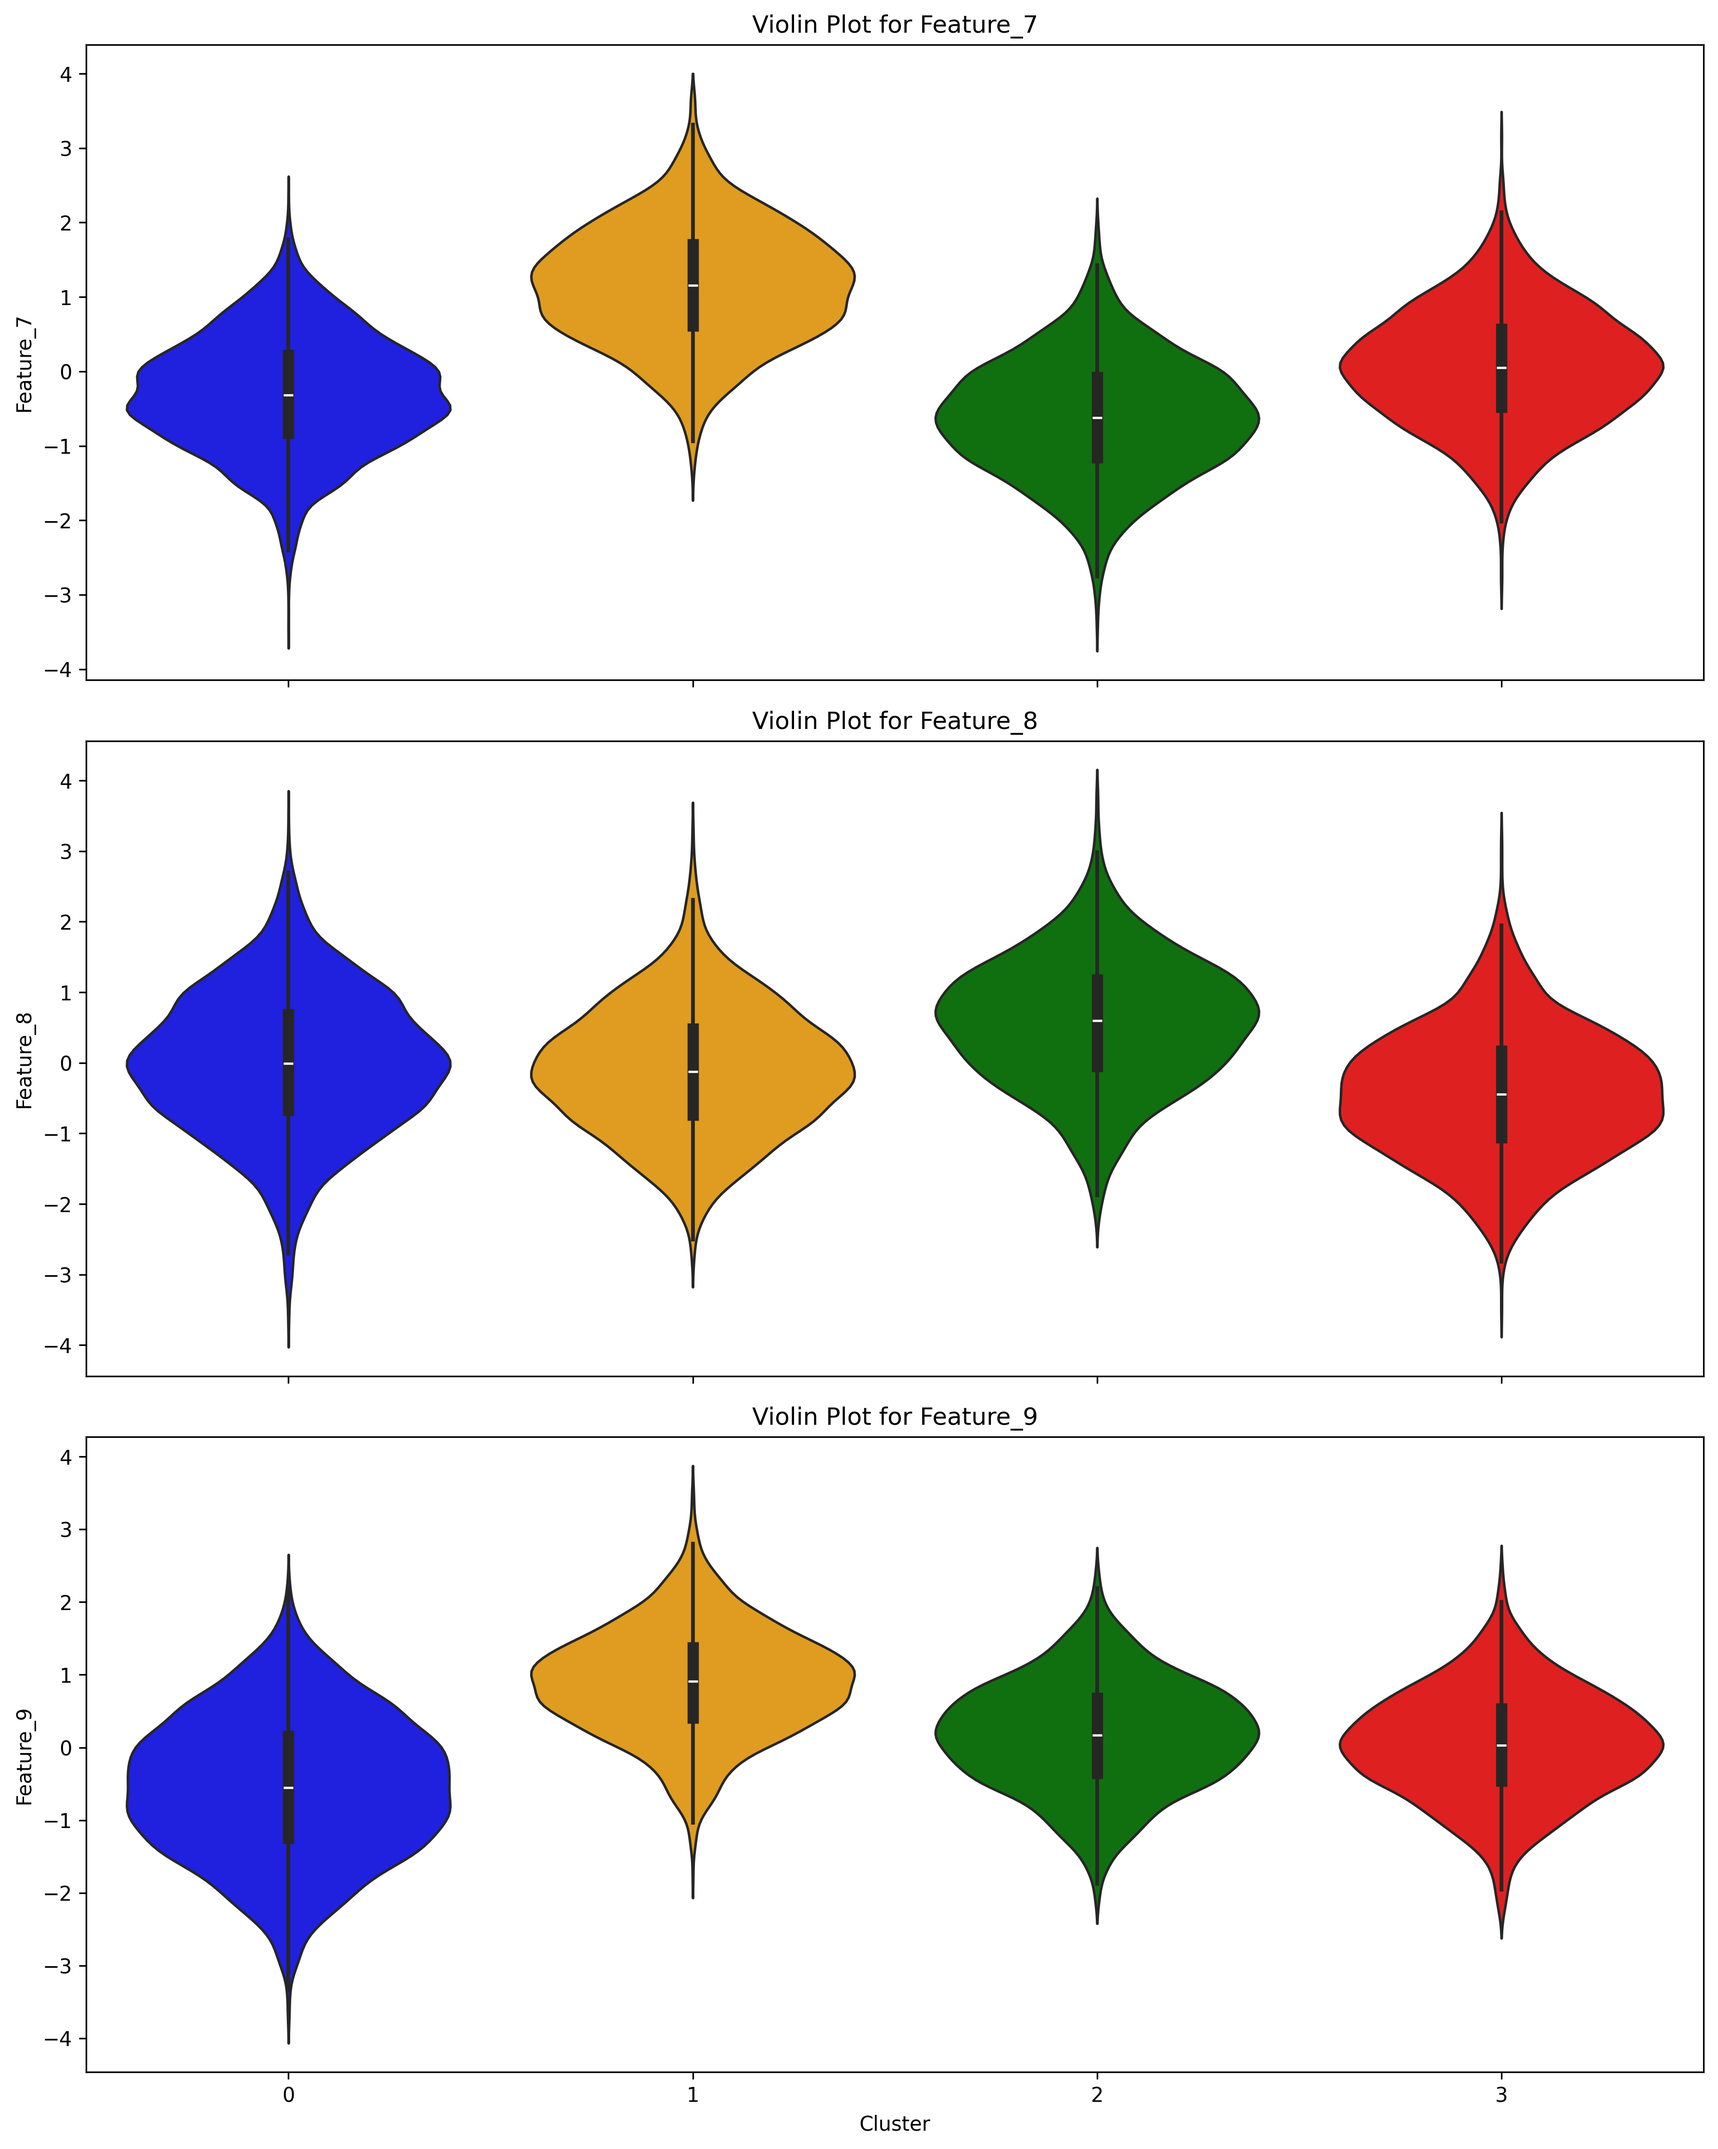
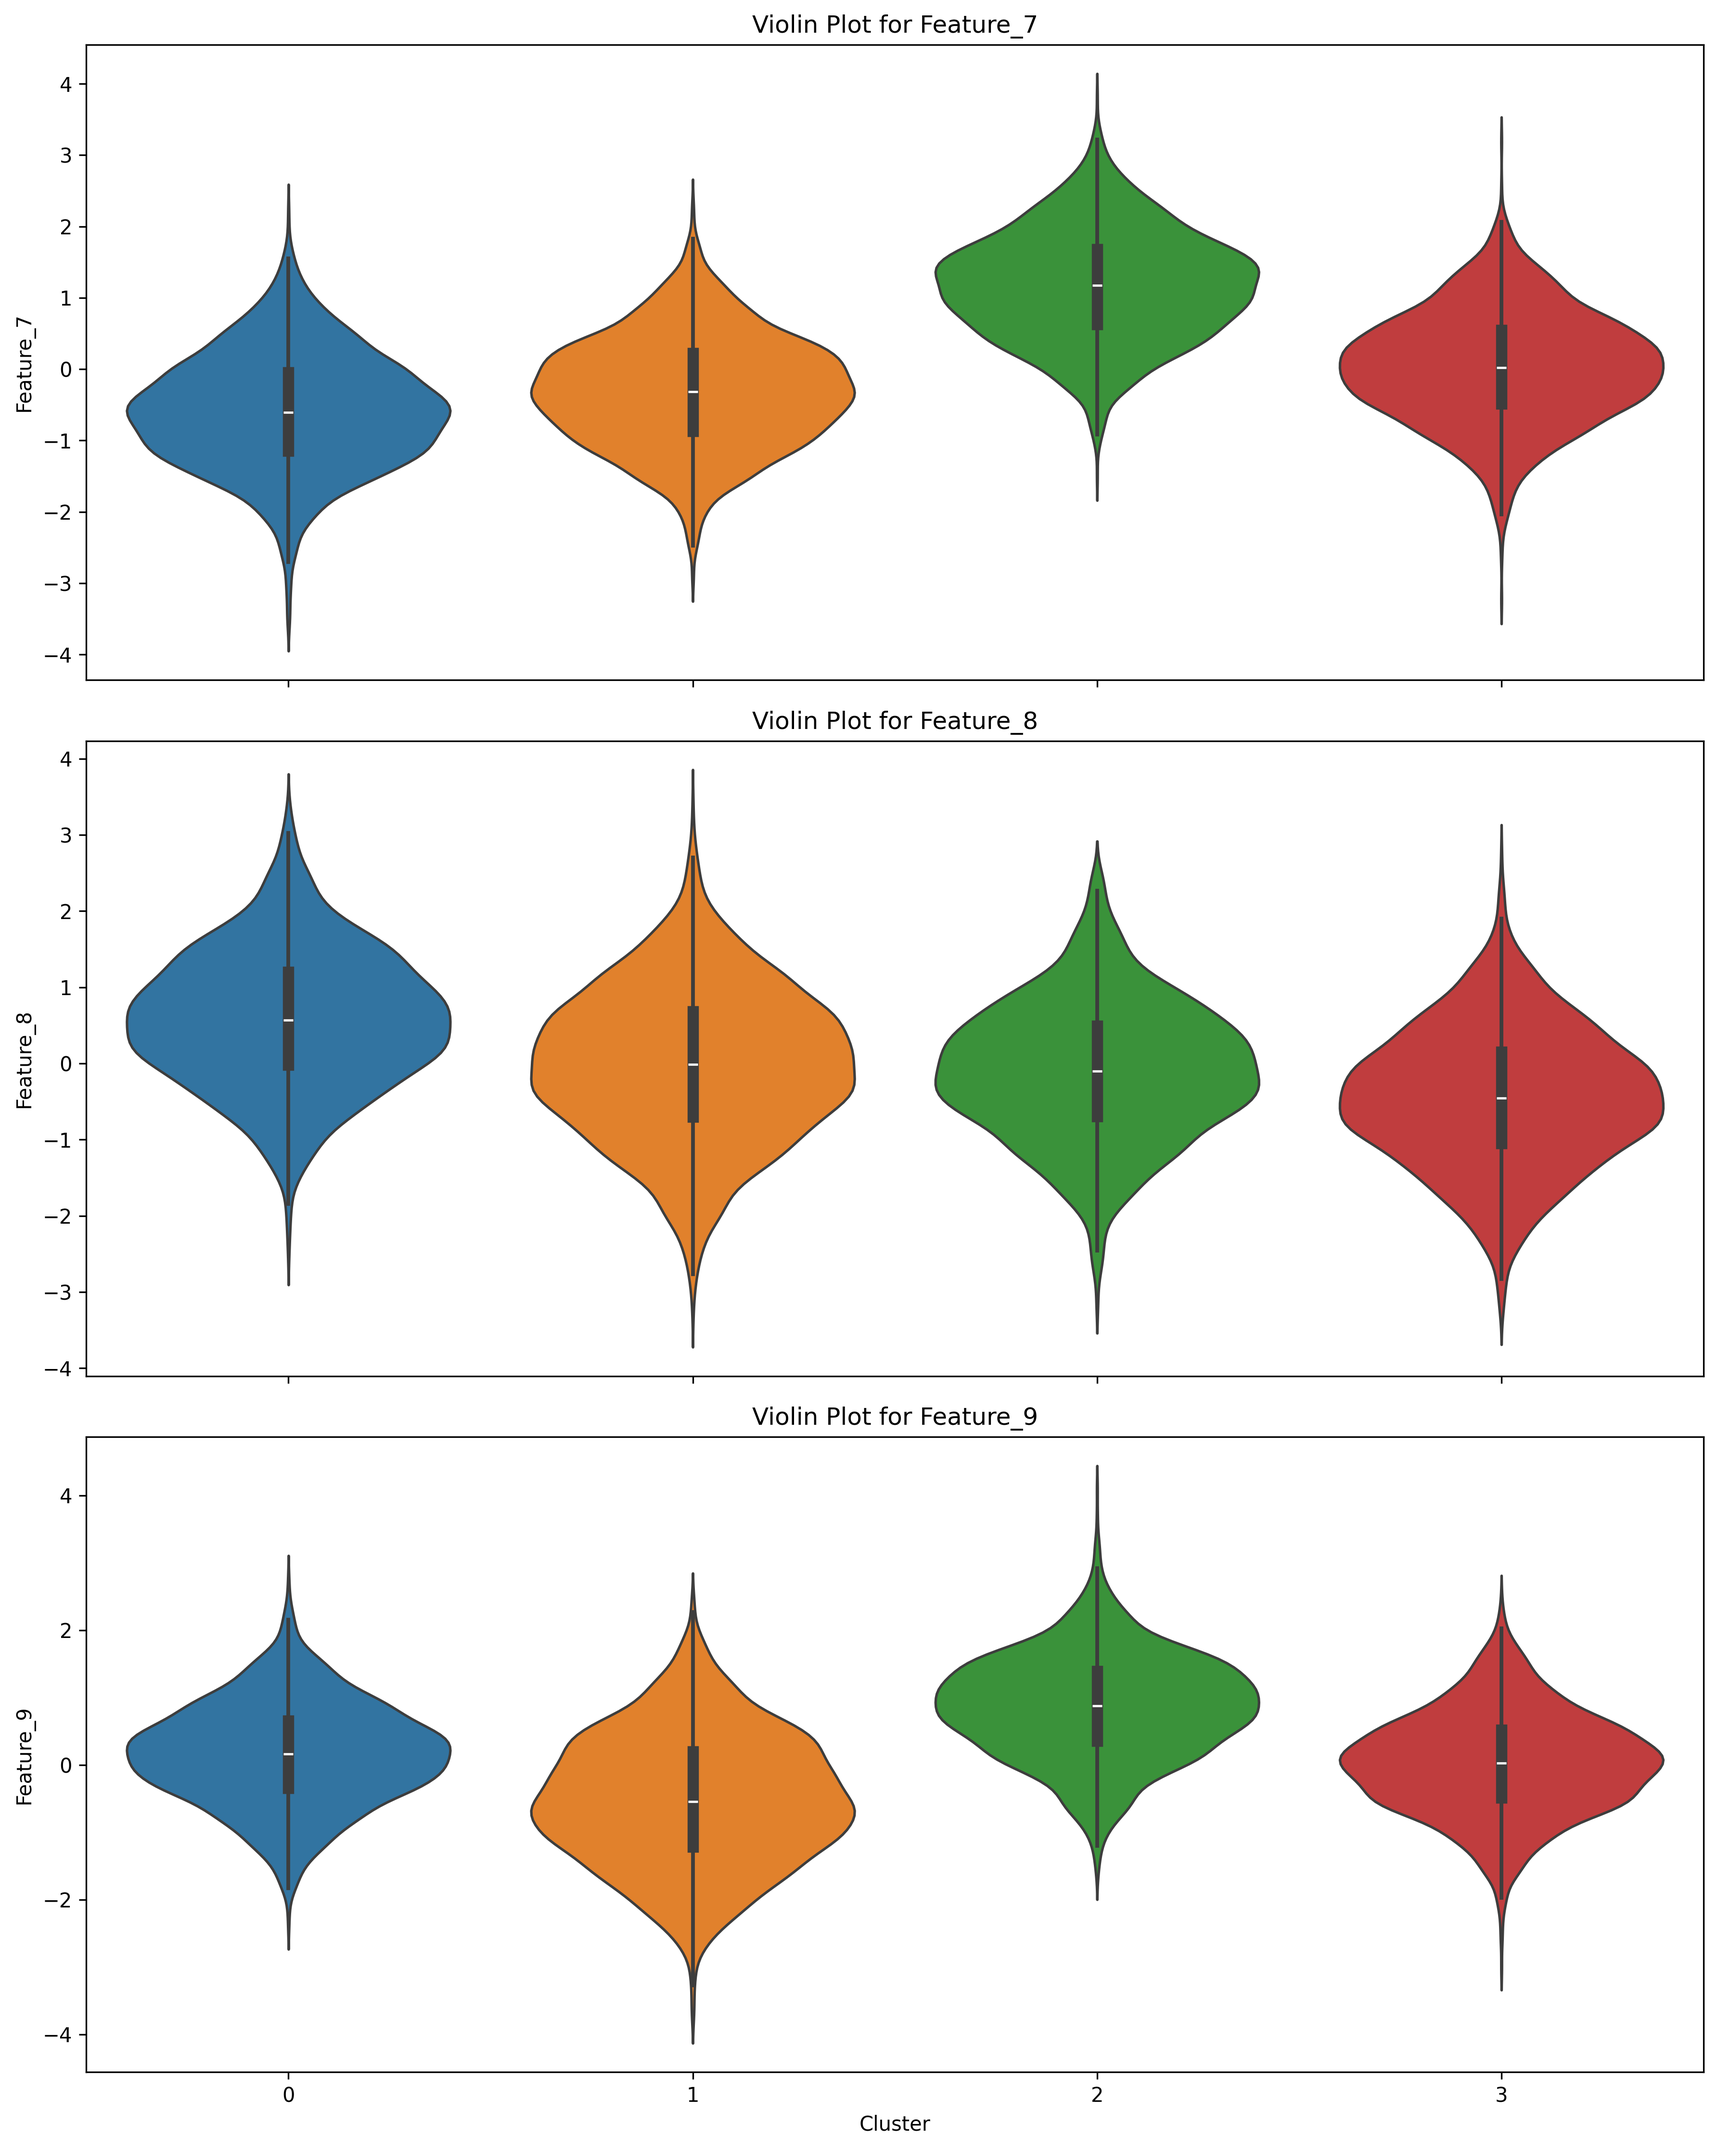
plots

diff --git a/main.py b/main.py
@@ -22,17 +22,22 @@ if not os.path.exists(OUTPUT_FILES):
     print(f"Created directory: {OUTPUT_FILES}")
 
 CLUSTER_COLORS = {
-    0: 'blue',
-    1: 'orange',
-    2: 'green',
-    3: 'red',
-    4: 'brown',
-    5: 'pink',
-    6: 'gray',
-    7: 'olive',
-    8: 'cyan',
-    9: 'purple',
-    10: 'magenta',
+    0: 'tab:blue',
+    1: 'tab:orange',
+    2: 'tab:green',
+    3: 'tab:red',
+    4: 'tab:brown',
+    5: 'tab:cyan',
+    6: 'tab:olive',
+    7: 'tab:gray',
+    8: 'tab:purple',
+    9: 'slategray',
+    10: 'darkslategray',
+    11: 'teal',
+    12: 'darkturquoise',
+    13: 'tomato',
+    14: 'cadetblue',
+    15: 'olivedrab',
 }
 
 
@@ -109,18 +114,18 @@ def find_best_k_elbow(model_name, X, max_k=10, sample_size=None, show=False):
     fig, axes = plt.subplots(1, 2, figsize=(16, 6))
 
     # Elbow Method Plot
-    axes[0].plot(range(2, max_k + 1), inertias, marker='o', color='blue')
+    axes[0].plot(range(2, max_k + 1), inertias, marker='o', markersize=10, color=CLUSTER_COLORS[0], linewidth=3)
     axes[0].set_title("Elbow Method for Optimal K")
     axes[0].set_xlabel("Number of Clusters (K)")
     axes[0].set_ylabel("Inertia (Sum of Squared Distances)")
-    axes[0].grid(True)
+    axes[0].grid(True, linestyle='-', alpha=0.5)
 
     # Silhouette Score Plot
-    axes[1].plot(range(2, max_k + 1), silhouette_scores, marker='o', color='green')
+    axes[1].plot(range(2, max_k + 1), silhouette_scores, marker='o', markersize=10, color=CLUSTER_COLORS[1], linewidth=3)
     axes[1].set_title("Silhouette Score for Optimal K")
     axes[1].set_xlabel("Number of Clusters (K)")
     axes[1].set_ylabel("Silhouette Score")
-    axes[1].grid(True)
+    axes[1].grid(True, linestyle='-', alpha=0.5)
 
     # Adjust layout
     plt.tight_layout()
@@ -171,7 +176,7 @@ def visualize_clustering_results(
     plt.ylabel('PCA Component 2')
     if len(unique_labels_viz) < 15:  # Avoid overly crowded legend
         plt.legend()
-    plt.grid(True)
+    plt.grid(True, linestyle='-', alpha=0.5)
 
     # Save the figure
     output_file_name = f"{OUTPUT_FILES}/clustering_visualization_{model_name}.png"
@@ -374,18 +379,18 @@ def analyze_feature_importance(
 
     # Bar plot for Decision Tree Importance
     x = range(len(combined_df))
-    ax1.bar(x, combined_df['DecisionTreeImportance'], color='blue', alpha=0.7, label='Decision Tree Importance')
+    ax1.bar(x, combined_df['DecisionTreeImportance'], color=CLUSTER_COLORS[7], alpha=1.0, label='Decision Tree Importance')
     ax1.set_xlabel('Features')
-    ax1.set_ylabel('Importance', color='blue')
+    ax1.set_ylabel('Importance')
     ax1.set_xticks(x)
     ax1.set_xticklabels(combined_df['Feature'], rotation=45, ha='right')
-    ax1.tick_params(axis='y', labelcolor='blue')
-    ax1.grid(axis='y', linestyle='--', alpha=0.7)
+    ax1.tick_params(axis='y')
+    ax1.grid(axis='y', linestyle='-', alpha=0.5)
 
     # Line plots for Correlation and Variance
     ax2 = ax1.twinx()
-    ax2.plot(x, combined_df['Correlation'], color='orange', marker='o', label='Correlation')
-    ax2.plot(x, combined_df['Variance'], color='green', marker='o', label='Variance')
+    ax2.plot(x, combined_df['Correlation'], color=CLUSTER_COLORS[0], linewidth=3, marker='o', markersize=10, label='Correlation')
+    ax2.plot(x, combined_df['Variance'], color=CLUSTER_COLORS[1], linewidth=3, marker='o', markersize=10, label='Variance')
     ax2.set_ylabel('Correlation / Variance', color='black')
     ax2.tick_params(axis='y', labelcolor='black')
 
@@ -554,7 +559,7 @@ feature_means = clustering_pipeline(
     elbow_analysis=True,
     clustering_plot=True,
     heatmap_plot=True,
-    violin_plot=True,
+    violin_plot=False,
     feature_importance=True,
     show_plots=True,
     feature_names=[f"Feature_{i+1}" for i in range(20)]
